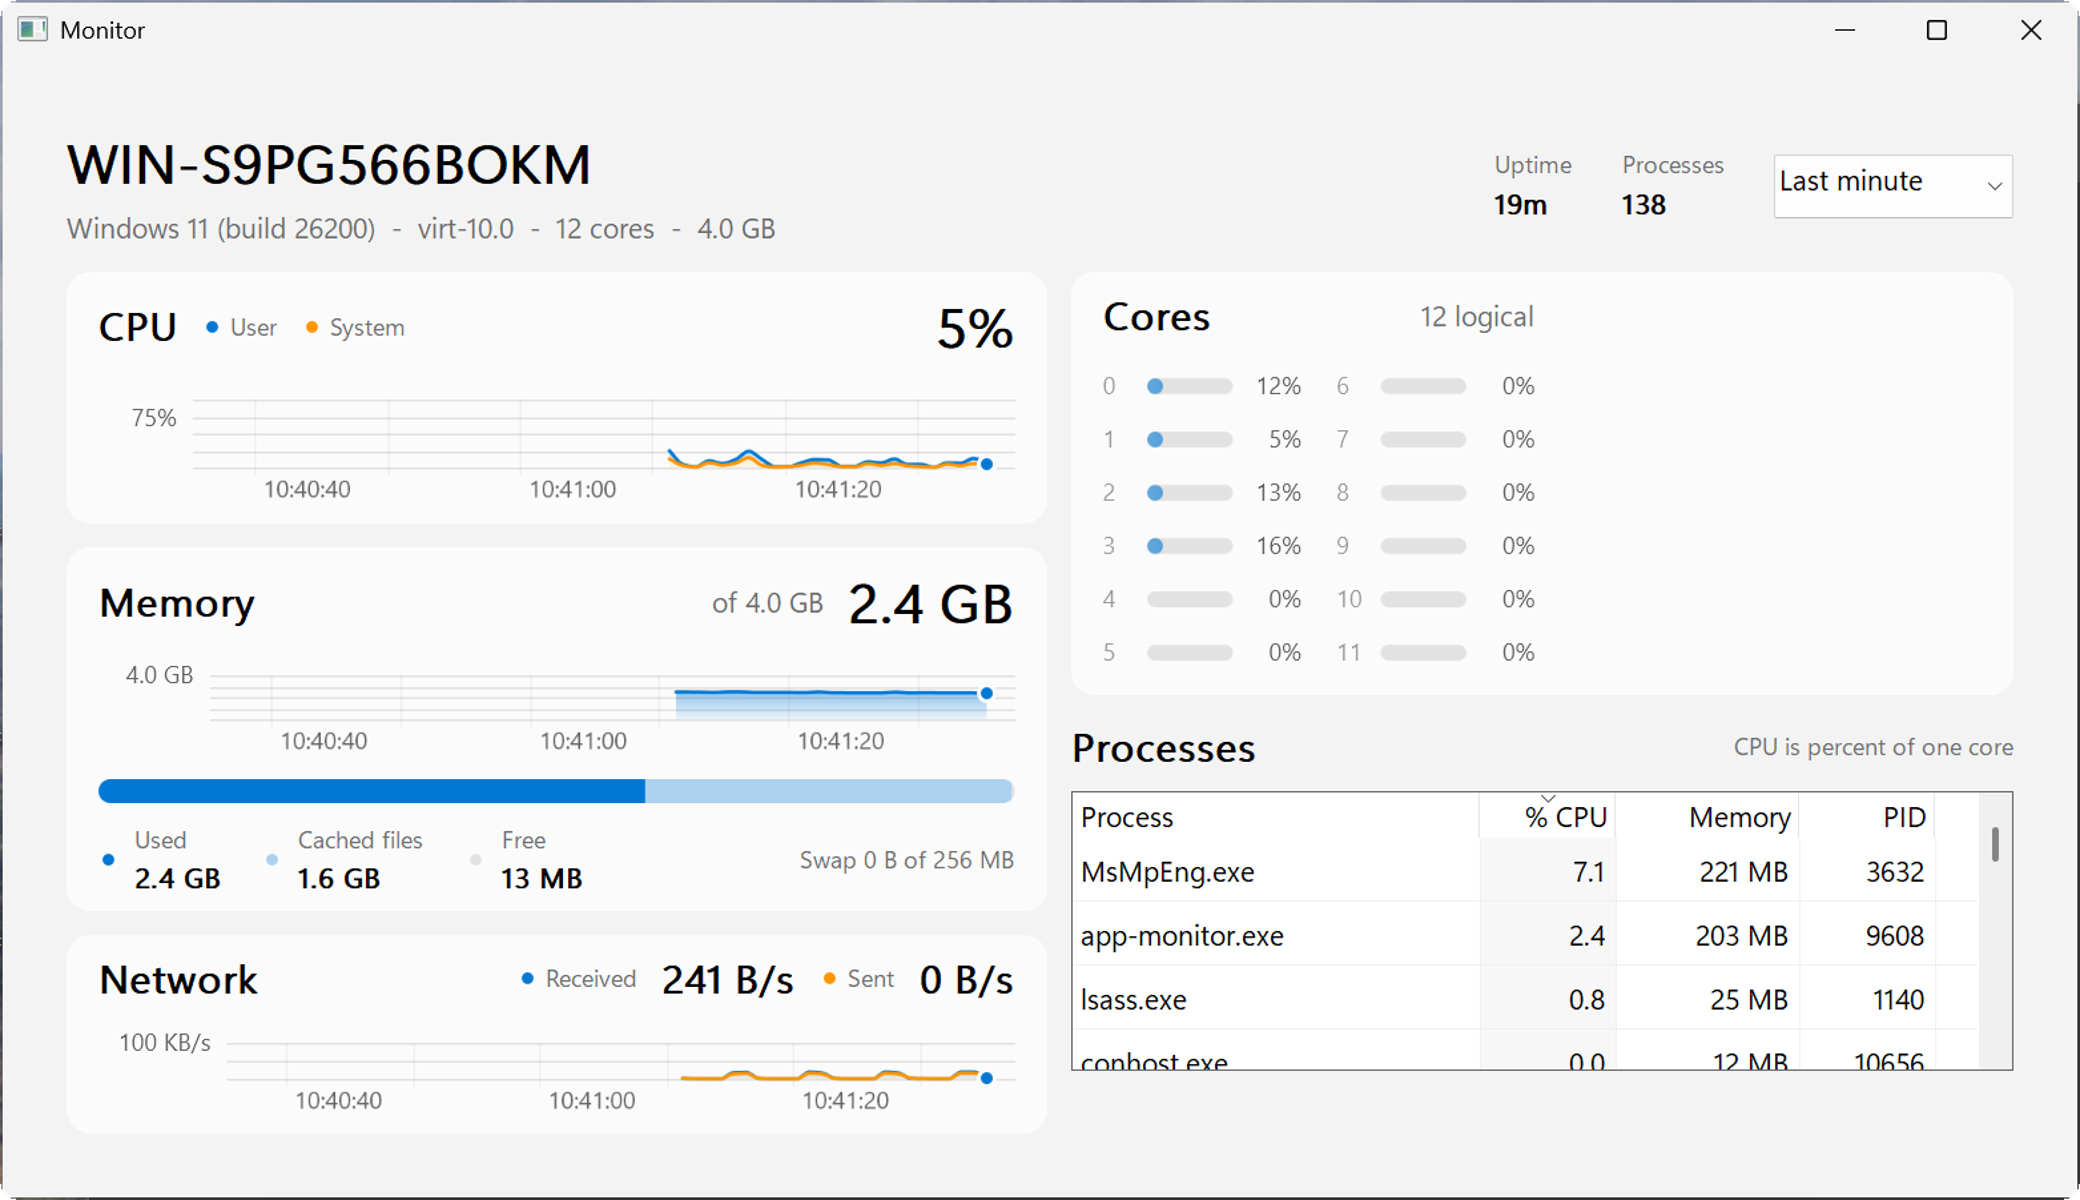
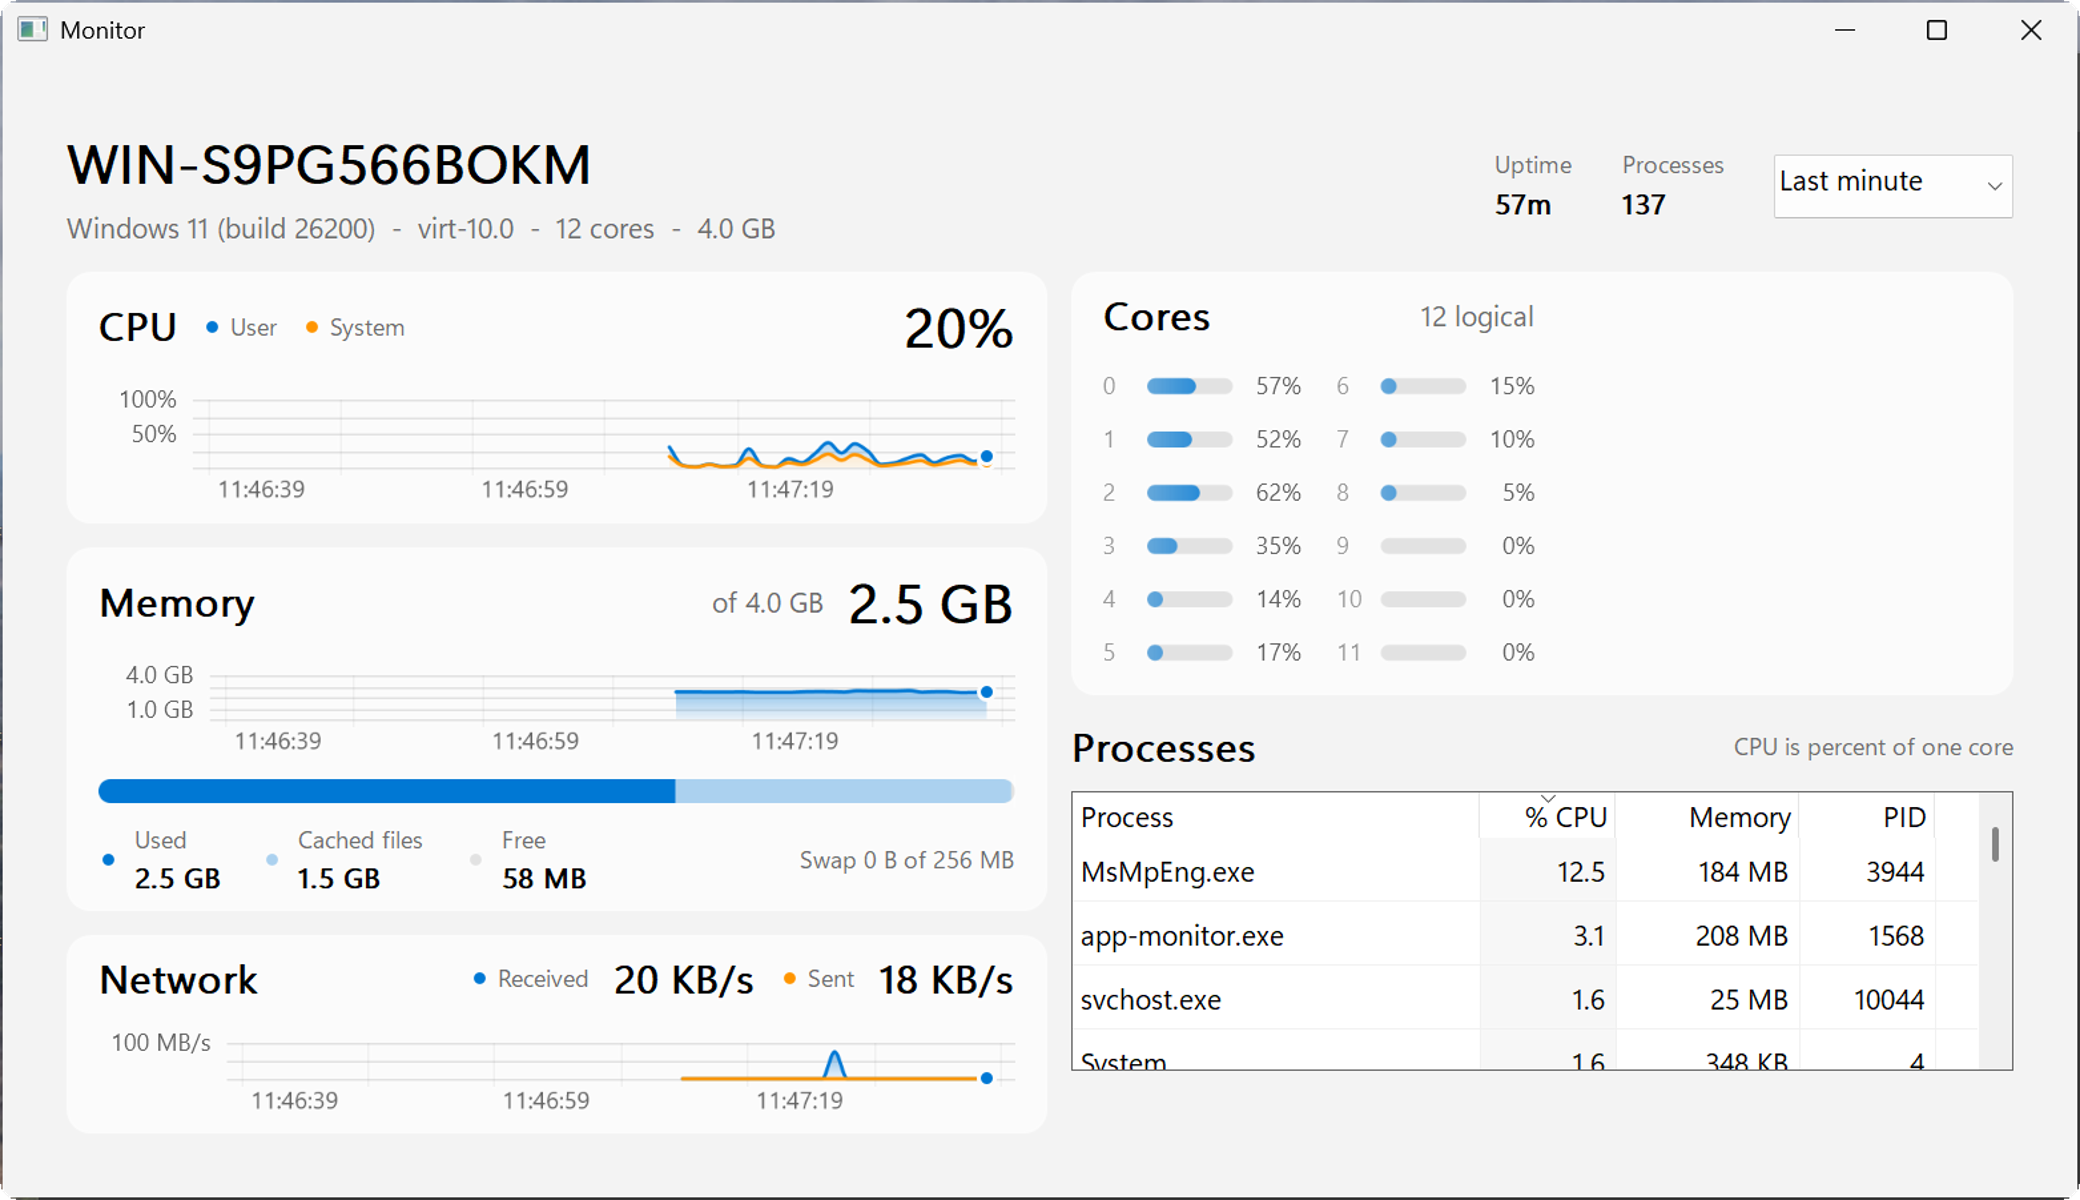
monitor: value axis keeps its top label and drops only labels that touch, live dots hidden before the first samples; snapshot clears the focus ring a display cycle before a screen capture and moves the window to a Retina screen; Linux and Windows shots retaken

diff --git a/internal/shot/shot_darwin.go b/internal/shot/shot_darwin.go
@@ -20,12 +20,7 @@ type nsRect struct {
 func WindowPNG(view int64, path string) error {
 	win := objc.ID(view).Send(objc.RegisterName("window"))
 	v := win.Send(objc.RegisterName("contentView")).Send(objc.RegisterName("superview"))
-	if os.Getenv("GOWT_SNAP_NOFOCUS") == "1" {
-		// The window takes the first responder, and no view or cell may draw a ring in the capture itself:
-		// the ring of the old responder was still in the shots with makeFirstResponder:nil alone.
-		win.Send(objc.RegisterName("makeFirstResponder:"), objc.ID(0))
-		noFocusRings(v)
-	}
+	ClearFocus(view)
 	if os.Getenv("GOWT_SNAP_SCREEN") == "1" {
 		return screenPNG(v, path)
 	}
@@ -59,4 +54,19 @@ func noFocusRings(v objc.ID) {
 	for i, n := uint64(0), objc.Send[uint64](subs, sel("count")); i < n; i++ {
 		noFocusRings(subs.Send(sel("objectAtIndex:"), i))
 	}
+}
+
+// ClearFocus is the GOWT_SNAP_NOFOCUS=1 pass. The window takes the first responder, and no view or cell may
+// draw a ring in the capture itself: the ring of the old responder was still in the shots with
+// makeFirstResponder:nil alone. A GOWT_SNAP_SCREEN capture reads what the window server holds, which
+// changes only after a display cycle, so gowt.Run calls this a few hundred ms before WindowPNG too.
+func ClearFocus(view int64) {
+	if os.Getenv("GOWT_SNAP_NOFOCUS") != "1" {
+		return
+	}
+	win := objc.ID(view).Send(objc.RegisterName("window"))
+	v := win.Send(objc.RegisterName("contentView")).Send(objc.RegisterName("superview"))
+	win.Send(objc.RegisterName("makeFirstResponder:"), objc.ID(0))
+	noFocusRings(v)
+	v.Send(objc.RegisterName("setNeedsDisplay:"), true)
 }

diff --git a/examples/apps/monitor/chart.go b/examples/apps/monitor/chart.go
@@ -73,7 +73,7 @@ type chart struct {
 	live, dots                       []*gfx.Sprite
 	hover                            *gfx.Point
 	hoverKey, bubbleW                float64
-	hoverShown                       bool
+	hoverShown, liveShown            bool
 }
 
 func newChart(spec chartSpec, pal *palette, window time.Duration) *chart {
@@ -119,7 +119,7 @@ func (c *chart) attach(v *view.View) {
 		c.live = append(c.live, comp.NewSprite(nil, gfx.SpaceScreen, gfx.Point{}))
 	}
 	c.ringSp = comp.NewSprite(nil, gfx.SpaceScreen, gfx.Point{})
-	for _, s := range append([]*gfx.Sprite{c.lineSp, c.bubbleSp, c.ringSp}, c.dots...) {
+	for _, s := range append([]*gfx.Sprite{c.lineSp, c.bubbleSp, c.ringSp}, append(c.dots, c.live...)...) {
 		s.SetOpacity(0)
 	}
 	c.resize()
@@ -357,8 +357,12 @@ func (c *chart) place() {
 	for i, s := range c.live {
 		if i < len(c.curves) && len(c.ts) > 1 {
 			s.SetPos(gfx.Point{X: right, Y: c.yOf(c.curves[i].at(c.tr))})
+			if !c.liveShown { // before the first samples the dots would sit in the plot's corner
+				s.SetOpacity(1)
+			}
 		}
 	}
+	c.liveShown = c.liveShown || len(c.ts) > 1
 	if c.ringSp != nil && len(c.curves) > 0 && len(c.ts) > 1 {
 		c.ringSp.SetPos(c.live[len(c.live)-1].Pos())
 	}

diff --git a/internal/shot/place_darwin.go b/internal/shot/place_darwin.go
@@ -1,0 +1,40 @@
+package shot
+
+import (
+	"os"
+	"structs"
+
+	"github.com/ebitengine/purego/objc"
+)
+
+type nsPoint struct {
+	_    structs.HostLayout
+	X, Y float64
+}
+
+// PlaceOnRetina moves the window to the first Retina screen unless it is on one, so a SNAP_SCREEN capture
+// is not a 1x display stretched. Call it early: the window needs a few loop turns there before the capture.
+func PlaceOnRetina(view int64) {
+	if os.Getenv("GOWT_SNAP_SCREEN") != "1" {
+		return
+	}
+	sel := objc.RegisterName
+	win := objc.ID(view).Send(sel("window"))
+	if win == 0 {
+		return
+	}
+	scale := func(screen objc.ID) float64 { return objc.Send[float64](screen, sel("backingScaleFactor")) }
+	if cur := win.Send(sel("screen")); cur != 0 && scale(cur) >= 2 {
+		return
+	}
+	screens := objc.ID(objc.GetClass("NSScreen")).Send(sel("screens"))
+	for i, n := uint64(0), objc.Send[uint64](screens, sel("count")); i < n; i++ {
+		s := screens.Send(sel("objectAtIndex:"), i)
+		if scale(s) < 2 {
+			continue
+		}
+		vf := objc.Send[nsRect](s, sel("visibleFrame"))
+		win.Send(sel("setFrameTopLeftPoint:"), nsPoint{X: vf.X + 40, Y: vf.Y + vf.H - 40})
+		return
+	}
+}

diff --git a/snap.go b/snap.go
@@ -31,8 +31,16 @@ func (a *App) armSnap(path string, errp *error) func() {
 			a.display.Wake()
 		}
 	}()
+	placed := false
+	var clearedAt time.Time
 	return func() {
 		now := time.Now()
+		if !placed {
+			if shells := a.display.GetShells(); len(shells) > 0 {
+				placed = true
+				shot.PlaceOnRetina(shotHandle(shells[0]))
+			}
+		}
 		if a.quit.Load() || now.Before(due) {
 			return
 		}
@@ -52,6 +60,13 @@ func (a *App) armSnap(path string, errp *error) func() {
 			}
 		}
 		shells := a.display.GetShells()
+		if len(shells) > 0 && clearedAt.IsZero() {
+			shot.ClearFocus(shotHandle(shells[0]))
+			clearedAt = now
+		}
+		if now.Sub(clearedAt) < 500*time.Millisecond {
+			return
+		}
 		if len(shells) == 0 {
 			*errp = fmt.Errorf("gowt: GOWT_SNAP: no window")
 		} else if err := shot.WindowPNG(shotHandle(shells[0]), path); err != nil {

diff --git a/examples/apps/monitor/tape.go b/examples/apps/monitor/tape.go
@@ -198,10 +198,12 @@ func recordTape(p *tapeParams, ts []float64, vals [][]float64) tapeResult {
 func recordAxis(pal *palette, p *tapeParams, label func(float64) string) *gfx.Picture {
 	r := gfx.NewRecorder()
 	r.FillRect(gfx.R(0, 0, p.margin, p.h), pal.card)
-	last := p.y(0)
-	for _, f := range p.fracs {
+	// from the top down, so the highest gridline keeps its label; a label that touches the one above is left out
+	last := math.Inf(-1)
+	for i := len(p.fracs) - 1; i >= 0; i-- {
+		f := p.fracs[i]
 		y := math.Round(p.y(f * p.yMax))
-		if f == 0 || last-y < pal.small.Size*1.5 { // a short chart keeps the labels that do not touch
+		if f == 0 || y-last < pal.small.Size*1.25 {
 			continue
 		}
 		last = y

diff --git a/internal/shot/place_other.go b/internal/shot/place_other.go
@@ -1,0 +1,6 @@
+//go:build !darwin
+
+package shot
+
+// PlaceOnRetina is for macOS only.
+func PlaceOnRetina(int64) {}

diff --git a/internal/shot/clear_other.go b/internal/shot/clear_other.go
@@ -1,0 +1,6 @@
+//go:build !darwin
+
+package shot
+
+// ClearFocus is for macOS only.
+func ClearFocus(int64) {}
